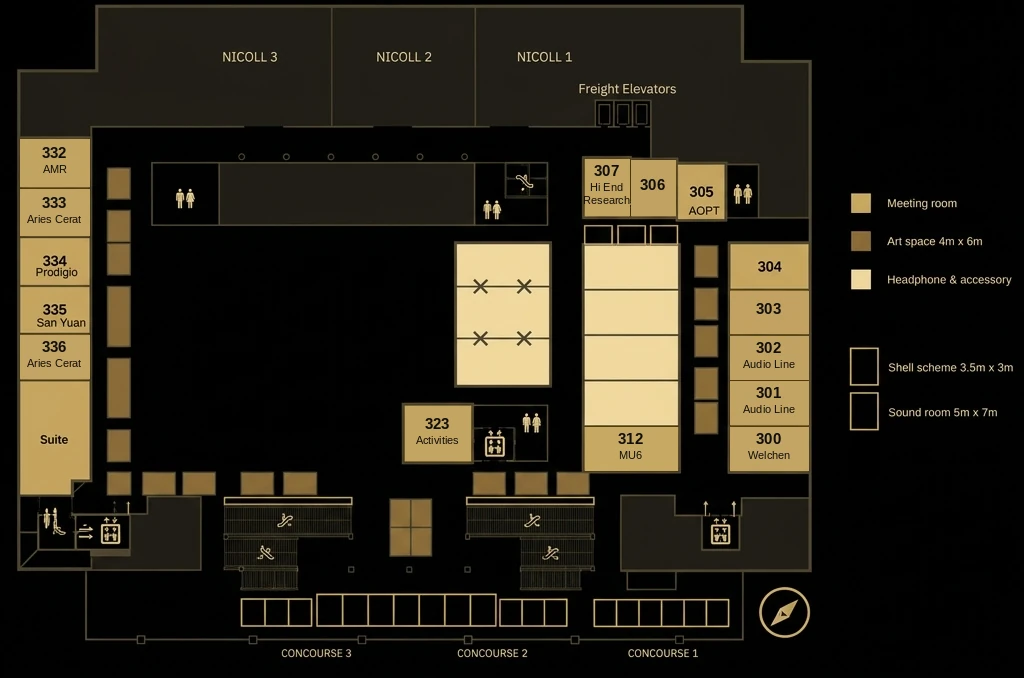
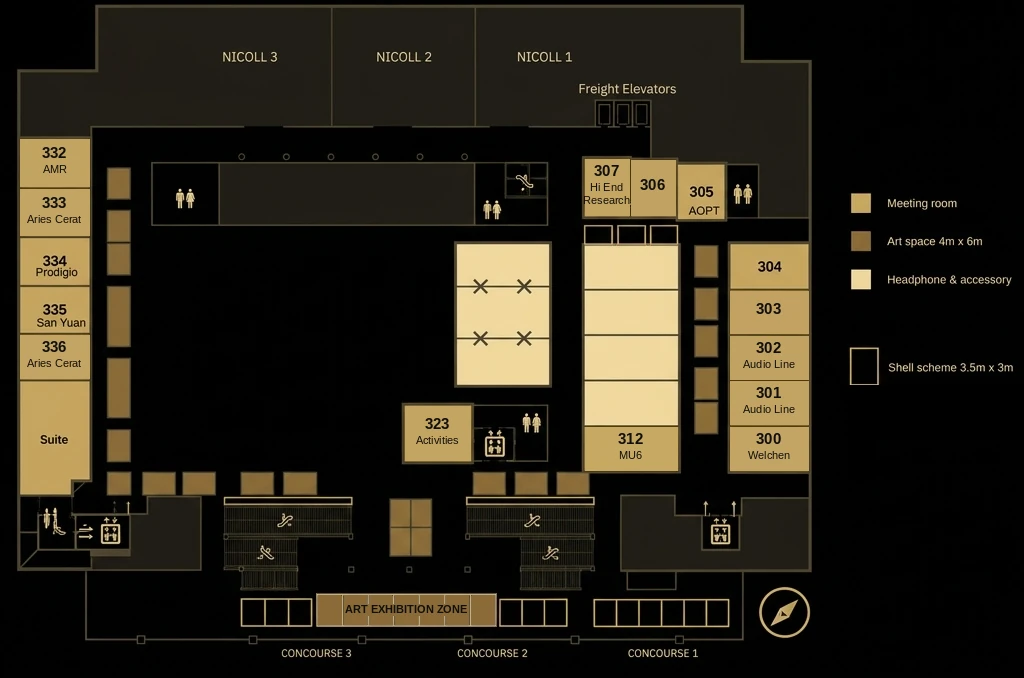
Art Exhibition Zone at Concourses 2-3
Patrick Bezalel and Extra•Ordinary People (charity; $50 donation gets a bear).
Static plan: sound-room row repainted as the art zone, sound-room legend removed.
Interactive map: Concourse 2 & 3 block is now the Art Exhibition Zone.

Claude-Session: https://claude.ai/code/session_015zDuTJLJ5T6chkEGSPZKou

Changed region(s): [[0.3125, 0.8673, 0.5, 0.9292], [0.8438, 0.5885, 0.9688, 0.6195], [0.8125, 0.6195, 0.8438, 0.6504]]

diff --git a/th/index.html b/th/index.html
@@ -809,7 +809,7 @@ section.block > .wrap { padding-block: var(--space-xl); display: flex; flex-dire
         <p class="intro" data-i18n="floor.intro">สำรวจห้องฟังเสียงเฉพาะบนชั้น 3 ของศูนย์ประชุมและนิทรรศการ Suntec Singapore แต่ละห้องออกแบบมาเพื่อนำเสนออุปกรณ์เครื่องเสียงระดับออดิโอไฟล์ที่ดีที่สุด เส้นทางที่คัดสรรมาแล้วผ่านเสียง ความแม่นยำ และงานฝีมือ</p>
       </div>
       <div>
-        <figure class="figure"><img src="../img/floorplan-2026.webp" srcset="../img/floorplan-2026-760.webp 760w, ../img/floorplan-2026.webp 1024w" sizes="(max-width: 860px) calc(100vw - 32px), 680px" alt="ผังงานชั้น 3 ซันเทค: ห้องฟังเพลง 300–336 พร้อมผู้จัดแสดง พื้นที่ศิลปะ โซนหูฟังและอุปกรณ์เสริม รวมถึงบูธและห้องเสียงตามแนว Concourse 1 ถึง 3" data-i18n-attr="alt:floor.alt" width="1024" height="678" loading="lazy"></figure>
+        <figure class="figure"><img src="../img/floorplan-2026.webp" srcset="../img/floorplan-2026-760.webp 760w, ../img/floorplan-2026.webp 1024w" sizes="(max-width: 860px) calc(100vw - 32px), 680px" alt="ผังงานชั้น 3 ซันเทค: ห้องฟังเพลง 300–336 พร้อมผู้จัดแสดง พื้นที่ศิลปะ โซนหูฟังและอุปกรณ์เสริม รวมถึงโซนนิทรรศการศิลปะและบูธตามแนว Concourse 1 ถึง 3" data-i18n-attr="alt:floor.alt" width="1024" height="678" loading="lazy"></figure>
         <p class="figcap" data-i18n="floor.cap">ผังชั้น 3 จากผู้จัดงาน การจัดสรรห้องอาจเปลี่ยนแปลงก่อนวันงาน</p>
       </div>
     </div>

diff --git a/vi/index.html b/vi/index.html
@@ -807,7 +807,7 @@ section.block > .wrap { padding-block: var(--space-xl); display: flex; flex-dire
         <p class="intro" data-i18n="floor.intro">Khám phá các phòng nghe riêng tại Tầng 3, Trung tâm Hội nghị &amp; Triển lãm Suntec Singapore. Mỗi không gian được thiết kế riêng để giới thiệu những thiết bị audiophile tinh tuyển nhất: một hành trình chọn lọc qua âm thanh, sự chính xác và tay nghề chế tác.</p>
       </div>
       <div>
-        <figure class="figure"><img src="../img/floorplan-2026.webp" srcset="../img/floorplan-2026-760.webp 760w, ../img/floorplan-2026.webp 1024w" sizes="(max-width: 860px) calc(100vw - 32px), 680px" alt="Sơ đồ triển lãm Tầng 3 Suntec: các phòng nghe 300–336 cùng đơn vị trưng bày, không gian nghệ thuật, khu tai nghe và phụ kiện, cùng các gian hàng và phòng âm thanh dọc Concourse 1 đến 3" data-i18n-attr="alt:floor.alt" width="1024" height="678" loading="lazy"></figure>
+        <figure class="figure"><img src="../img/floorplan-2026.webp" srcset="../img/floorplan-2026-760.webp 760w, ../img/floorplan-2026.webp 1024w" sizes="(max-width: 860px) calc(100vw - 32px), 680px" alt="Sơ đồ triển lãm Tầng 3 Suntec: các phòng nghe 300–336 cùng đơn vị trưng bày, không gian nghệ thuật, khu tai nghe và phụ kiện, cùng khu triển lãm nghệ thuật và các gian hàng dọc Concourse 1 đến 3" data-i18n-attr="alt:floor.alt" width="1024" height="678" loading="lazy"></figure>
         <p class="figcap" data-i18n="floor.cap">Bố trí Tầng 3 do ban tổ chức cung cấp. Việc phân bổ phòng có thể thay đổi trước triển lãm.</p>
       </div>
     </div>

diff --git a/fil/index.html b/fil/index.html
@@ -807,7 +807,7 @@ section.block > .wrap { padding-block: var(--space-xl); display: flex; flex-dire
         <p class="intro" data-i18n="floor.intro">Libutin ang mga nakalaang listening room sa Level 3 ng Suntec Singapore Convention &amp; Exhibition Centre. Bawat espasyo ay sadyang inihanda para itampok ang pinakamahusay na audiophile equipment: isang piniling paglalakbay sa tunog, katumpakan at husay ng pagkakagawa.</p>
       </div>
       <div>
-        <figure class="figure"><img src="../img/floorplan-2026.webp" srcset="../img/floorplan-2026-760.webp 760w, ../img/floorplan-2026.webp 1024w" sizes="(max-width: 860px) calc(100vw - 32px), 680px" alt="Floorplan ng Level 3 ng Suntec: mga listening room 300–336 at ang kanilang exhibitor, mga art space, ang headphone at accessory area, at mga booth at sound room sa Concourse 1 hanggang 3" data-i18n-attr="alt:floor.alt" width="1024" height="678" loading="lazy"></figure>
+        <figure class="figure"><img src="../img/floorplan-2026.webp" srcset="../img/floorplan-2026-760.webp 760w, ../img/floorplan-2026.webp 1024w" sizes="(max-width: 860px) calc(100vw - 32px), 680px" alt="Floorplan ng Level 3 ng Suntec: mga listening room 300–336 at ang kanilang exhibitor, mga art space, ang headphone at accessory area, at ang art exhibition zone at mga booth sa Concourse 1 hanggang 3" data-i18n-attr="alt:floor.alt" width="1024" height="678" loading="lazy"></figure>
         <p class="figcap" data-i18n="floor.cap">Layout ng Level 3 mula sa organizer. Maaaring magbago ang pagkakatalaga ng mga room bago ang palabas.</p>
       </div>
     </div>

diff --git a/ms/index.html b/ms/index.html
@@ -807,7 +807,7 @@ section.block > .wrap { padding-block: var(--space-xl); display: flex; flex-dire
         <p class="intro" data-i18n="floor.intro">Terokai bilik dengar khas di Aras 3 Pusat Konvensyen &amp; Pameran Suntec Singapore. Setiap ruang dibina khusus untuk mempamerkan peralatan audiofil terbaik: satu perjalanan pilihan menerusi bunyi, ketelitian dan ketukangan.</p>
       </div>
       <div>
-        <figure class="figure"><img src="../img/floorplan-2026.webp" srcset="../img/floorplan-2026-760.webp 760w, ../img/floorplan-2026.webp 1024w" sizes="(max-width: 860px) calc(100vw - 32px), 680px" alt="Pelan lantai pameran Aras 3 Suntec: bilik dengar 300–336 bersama pempamernya, ruang seni, kawasan fon kepala dan aksesori, serta gerai dan bilik bunyi di sepanjang Concourse 1 hingga 3" data-i18n-attr="alt:floor.alt" width="1024" height="678" loading="lazy"></figure>
+        <figure class="figure"><img src="../img/floorplan-2026.webp" srcset="../img/floorplan-2026-760.webp 760w, ../img/floorplan-2026.webp 1024w" sizes="(max-width: 860px) calc(100vw - 32px), 680px" alt="Pelan lantai pameran Aras 3 Suntec: bilik dengar 300–336 bersama pempamernya, ruang seni, kawasan fon kepala dan aksesori, serta zon pameran seni dan gerai di sepanjang Concourse 1 hingga 3" data-i18n-attr="alt:floor.alt" width="1024" height="678" loading="lazy"></figure>
         <p class="figcap" data-i18n="floor.cap">Susun atur Aras 3 daripada penganjur. Peruntukan bilik mungkin berubah sebelum pameran.</p>
       </div>
     </div>

diff --git a/artifact.html b/artifact.html
@@ -779,7 +779,7 @@ section.block > .wrap { padding-block: var(--space-xl); display: flex; flex-dire
         <p class="intro" data-i18n="floor.intro">Explore dedicated listening rooms on Level 3 of the Suntec Singapore Convention &amp; Exhibition Centre. Each space is purpose-built to showcase the finest in audiophile equipment: a curated journey through sound, precision and craftsmanship.</p>
       </div>
       <div>
-        <figure class="figure"><img src="img/floorplan-2026.webp" srcset="img/floorplan-2026-760.webp 760w, img/floorplan-2026.webp 1024w" sizes="(max-width: 860px) calc(100vw - 32px), 680px" alt="Show floorplan of Suntec Level 3: listening rooms 300–336 with their exhibitors, art spaces, the headphone and accessory area, and shell schemes and sound rooms along Concourses 1 to 3" data-i18n-attr="alt:floor.alt" width="1024" height="678" loading="lazy"></figure>
+        <figure class="figure"><img src="img/floorplan-2026.webp" srcset="img/floorplan-2026-760.webp 760w, img/floorplan-2026.webp 1024w" sizes="(max-width: 860px) calc(100vw - 32px), 680px" alt="Show floorplan of Suntec Level 3: listening rooms 300–336 with their exhibitors, art spaces, the headphone and accessory area, and the art exhibition zone and shell schemes along Concourses 1 to 3" data-i18n-attr="alt:floor.alt" width="1024" height="678" loading="lazy"></figure>
         <p class="figcap" data-i18n="floor.cap">Level 3 layout from the organiser. Room allocations may change before the show.</p>
       </div>
     </div>

diff --git a/index.html b/index.html
@@ -807,7 +807,7 @@ section.block > .wrap { padding-block: var(--space-xl); display: flex; flex-dire
         <p class="intro" data-i18n="floor.intro">Explore dedicated listening rooms on Level 3 of the Suntec Singapore Convention &amp; Exhibition Centre. Each space is purpose-built to showcase the finest in audiophile equipment: a curated journey through sound, precision and craftsmanship.</p>
       </div>
       <div>
-        <figure class="figure"><img src="img/floorplan-2026.webp" srcset="img/floorplan-2026-760.webp 760w, img/floorplan-2026.webp 1024w" sizes="(max-width: 860px) calc(100vw - 32px), 680px" alt="Show floorplan of Suntec Level 3: listening rooms 300–336 with their exhibitors, art spaces, the headphone and accessory area, and shell schemes and sound rooms along Concourses 1 to 3" data-i18n-attr="alt:floor.alt" width="1024" height="678" loading="lazy"></figure>
+        <figure class="figure"><img src="img/floorplan-2026.webp" srcset="img/floorplan-2026-760.webp 760w, img/floorplan-2026.webp 1024w" sizes="(max-width: 860px) calc(100vw - 32px), 680px" alt="Show floorplan of Suntec Level 3: listening rooms 300–336 with their exhibitors, art spaces, the headphone and accessory area, and the art exhibition zone and shell schemes along Concourses 1 to 3" data-i18n-attr="alt:floor.alt" width="1024" height="678" loading="lazy"></figure>
         <p class="figcap" data-i18n="floor.cap">Level 3 layout from the organiser. Room allocations may change before the show.</p>
       </div>
     </div>

diff --git a/id/index.html b/id/index.html
@@ -807,7 +807,7 @@ section.block > .wrap { padding-block: var(--space-xl); display: flex; flex-dire
         <p class="intro" data-i18n="floor.intro">Jelajahi ruang-ruang dengar khusus di Lantai 3 Suntec Singapore Convention &amp; Exhibition Centre. Setiap ruang dirancang untuk menampilkan perangkat audiophile terbaik: perjalanan terkurasi melalui suara, presisi, dan keahlian.</p>
       </div>
       <div>
-        <figure class="figure"><img src="../img/floorplan-2026.webp" srcset="../img/floorplan-2026-760.webp 760w, ../img/floorplan-2026.webp 1024w" sizes="(max-width: 860px) calc(100vw - 32px), 680px" alt="Denah pameran Lantai 3 Suntec: ruang dengar 300–336 beserta pesertanya, ruang seni, area headphone dan aksesori, serta stan dan ruang audio di sepanjang Concourse 1 sampai 3" data-i18n-attr="alt:floor.alt" width="1024" height="678" loading="lazy"></figure>
+        <figure class="figure"><img src="../img/floorplan-2026.webp" srcset="../img/floorplan-2026-760.webp 760w, ../img/floorplan-2026.webp 1024w" sizes="(max-width: 860px) calc(100vw - 32px), 680px" alt="Denah pameran Lantai 3 Suntec: ruang dengar 300–336 beserta pesertanya, ruang seni, area headphone dan aksesori, serta zona pameran seni dan stan di sepanjang Concourse 1 sampai 3" data-i18n-attr="alt:floor.alt" width="1024" height="678" loading="lazy"></figure>
         <p class="figcap" data-i18n="floor.cap">Tata letak Lantai 3 dari penyelenggara. Pembagian ruang dapat berubah sebelum pameran.</p>
       </div>
     </div>

diff --git a/zh-Hans/index.html b/zh-Hans/index.html
@@ -809,7 +809,7 @@ section.block > .wrap { padding-block: var(--space-xl); display: flex; flex-dire
         <p class="intro" data-i18n="floor.intro">在新达城新加坡国际会议与展览中心三楼，探索专属试听室。每一个空间都为呈现顶级音响器材而精心打造，带您踏上一段精挑细选的声音之旅，细品精准与工艺。</p>
       </div>
       <div>
-        <figure class="figure"><img src="../img/floorplan-2026.webp" srcset="../img/floorplan-2026-760.webp 760w, ../img/floorplan-2026.webp 1024w" sizes="(max-width: 860px) calc(100vw - 32px), 680px" alt="Suntec 三楼展会平面图：300–336 号试听室及其参展商、艺术空间、耳机与配件区，以及 1 至 3 号大堂沿线的标准展位和音响室" data-i18n-attr="alt:floor.alt" width="1024" height="678" loading="lazy"></figure>
+        <figure class="figure"><img src="../img/floorplan-2026.webp" srcset="../img/floorplan-2026-760.webp 760w, ../img/floorplan-2026.webp 1024w" sizes="(max-width: 860px) calc(100vw - 32px), 680px" alt="Suntec 三楼展会平面图：300–336 号试听室及其参展商、艺术空间、耳机与配件区，以及 1 至 3 号大堂沿线的艺术展区和标准展位" data-i18n-attr="alt:floor.alt" width="1024" height="678" loading="lazy"></figure>
         <p class="figcap" data-i18n="floor.cap">三楼布局由主办方提供。展室分配在开展前或有调整。</p>
       </div>
     </div>

diff --git a/zh-Hant/index.html b/zh-Hant/index.html
@@ -809,7 +809,7 @@ section.block > .wrap { padding-block: var(--space-xl); display: flex; flex-dire
         <p class="intro" data-i18n="floor.intro">在新達城新加坡國際會議與展覽中心三樓，探索一間間專屬試聽室。每個空間皆為呈現頂級音響器材而設，帶您走過一段關於聲音、精準與工藝的旅程。</p>
       </div>
       <div>
-        <figure class="figure"><img src="../img/floorplan-2026.webp" srcset="../img/floorplan-2026-760.webp 760w, ../img/floorplan-2026.webp 1024w" sizes="(max-width: 860px) calc(100vw - 32px), 680px" alt="Suntec 三樓展會平面圖：300–336 號試聽室及其參展商、藝術空間、耳機與配件區，以及 1 至 3 號大廳沿線的標準攤位與音響室" data-i18n-attr="alt:floor.alt" width="1024" height="678" loading="lazy"></figure>
+        <figure class="figure"><img src="../img/floorplan-2026.webp" srcset="../img/floorplan-2026-760.webp 760w, ../img/floorplan-2026.webp 1024w" sizes="(max-width: 860px) calc(100vw - 32px), 680px" alt="Suntec 三樓展會平面圖：300–336 號試聽室及其參展商、藝術空間、耳機與配件區，以及 1 至 3 號大廳沿線的藝術展區與標準攤位" data-i18n-attr="alt:floor.alt" width="1024" height="678" loading="lazy"></figure>
         <p class="figcap" data-i18n="floor.cap">三樓配置圖由主辦單位提供。展間分配或於展前調整。</p>
       </div>
     </div>

diff --git a/floormap/floormap.js b/floormap/floormap.js
@@ -64,7 +64,7 @@
   };
   var ZONE = { west: 'west', top: 'east', east: 'east', farEast: 'east', centre: 'centre', concourse: 'centre' };
   var ORDER = { east: ['312', '311', '310', '309', '308'], farEast: ['300', '301', '302', '303', '304'], top: ['307', '306', '305'], west: ['336', '335', '334', '333', '332'] };
-  var SHORT = { C23: 'Concourse 2 & 3' };
+  var SHORT = { C23: 'Art Exhibition Zone' };
   var VENUE = [ // other Level 3 rooms, drawn faintly for orientation
     { r: [112, 20, 182, 62], t: '327–330' }, { r: [100, 84, 192, 240], t: 'Summit 1 & 2|324–326' }
   ];
@@ -95,7 +95,7 @@
     { room: '334', type: 'listening', exhibitor: 'Prodigio Audio', brands: 'Prodigio Audio' },
     { room: '335', type: 'listening', exhibitor: 'San Yuan', note: 'Taiwan', brands: 'San Yuan, Ronnie' },
     { room: '336', type: 'listening', exhibitor: 'Aries Cerat', note: 'With room 333', brands: 'Aries Cerat' },
-    { room: 'C23', type: 'tbc', name: 'Concourse 2 & 3' }
+    { room: 'C23', type: 'hall', name: 'Art Exhibition Zone', exhibitor: 'Patrick Bezalel · Extra•Ordinary People', brands: 'Art gallery', note: 'Extra•Ordinary People is a Singapore charity; artists with autism sell their work here. Donate $50 to receive a bear.' }
   ];
 
   // ---------- Helpers ----------
